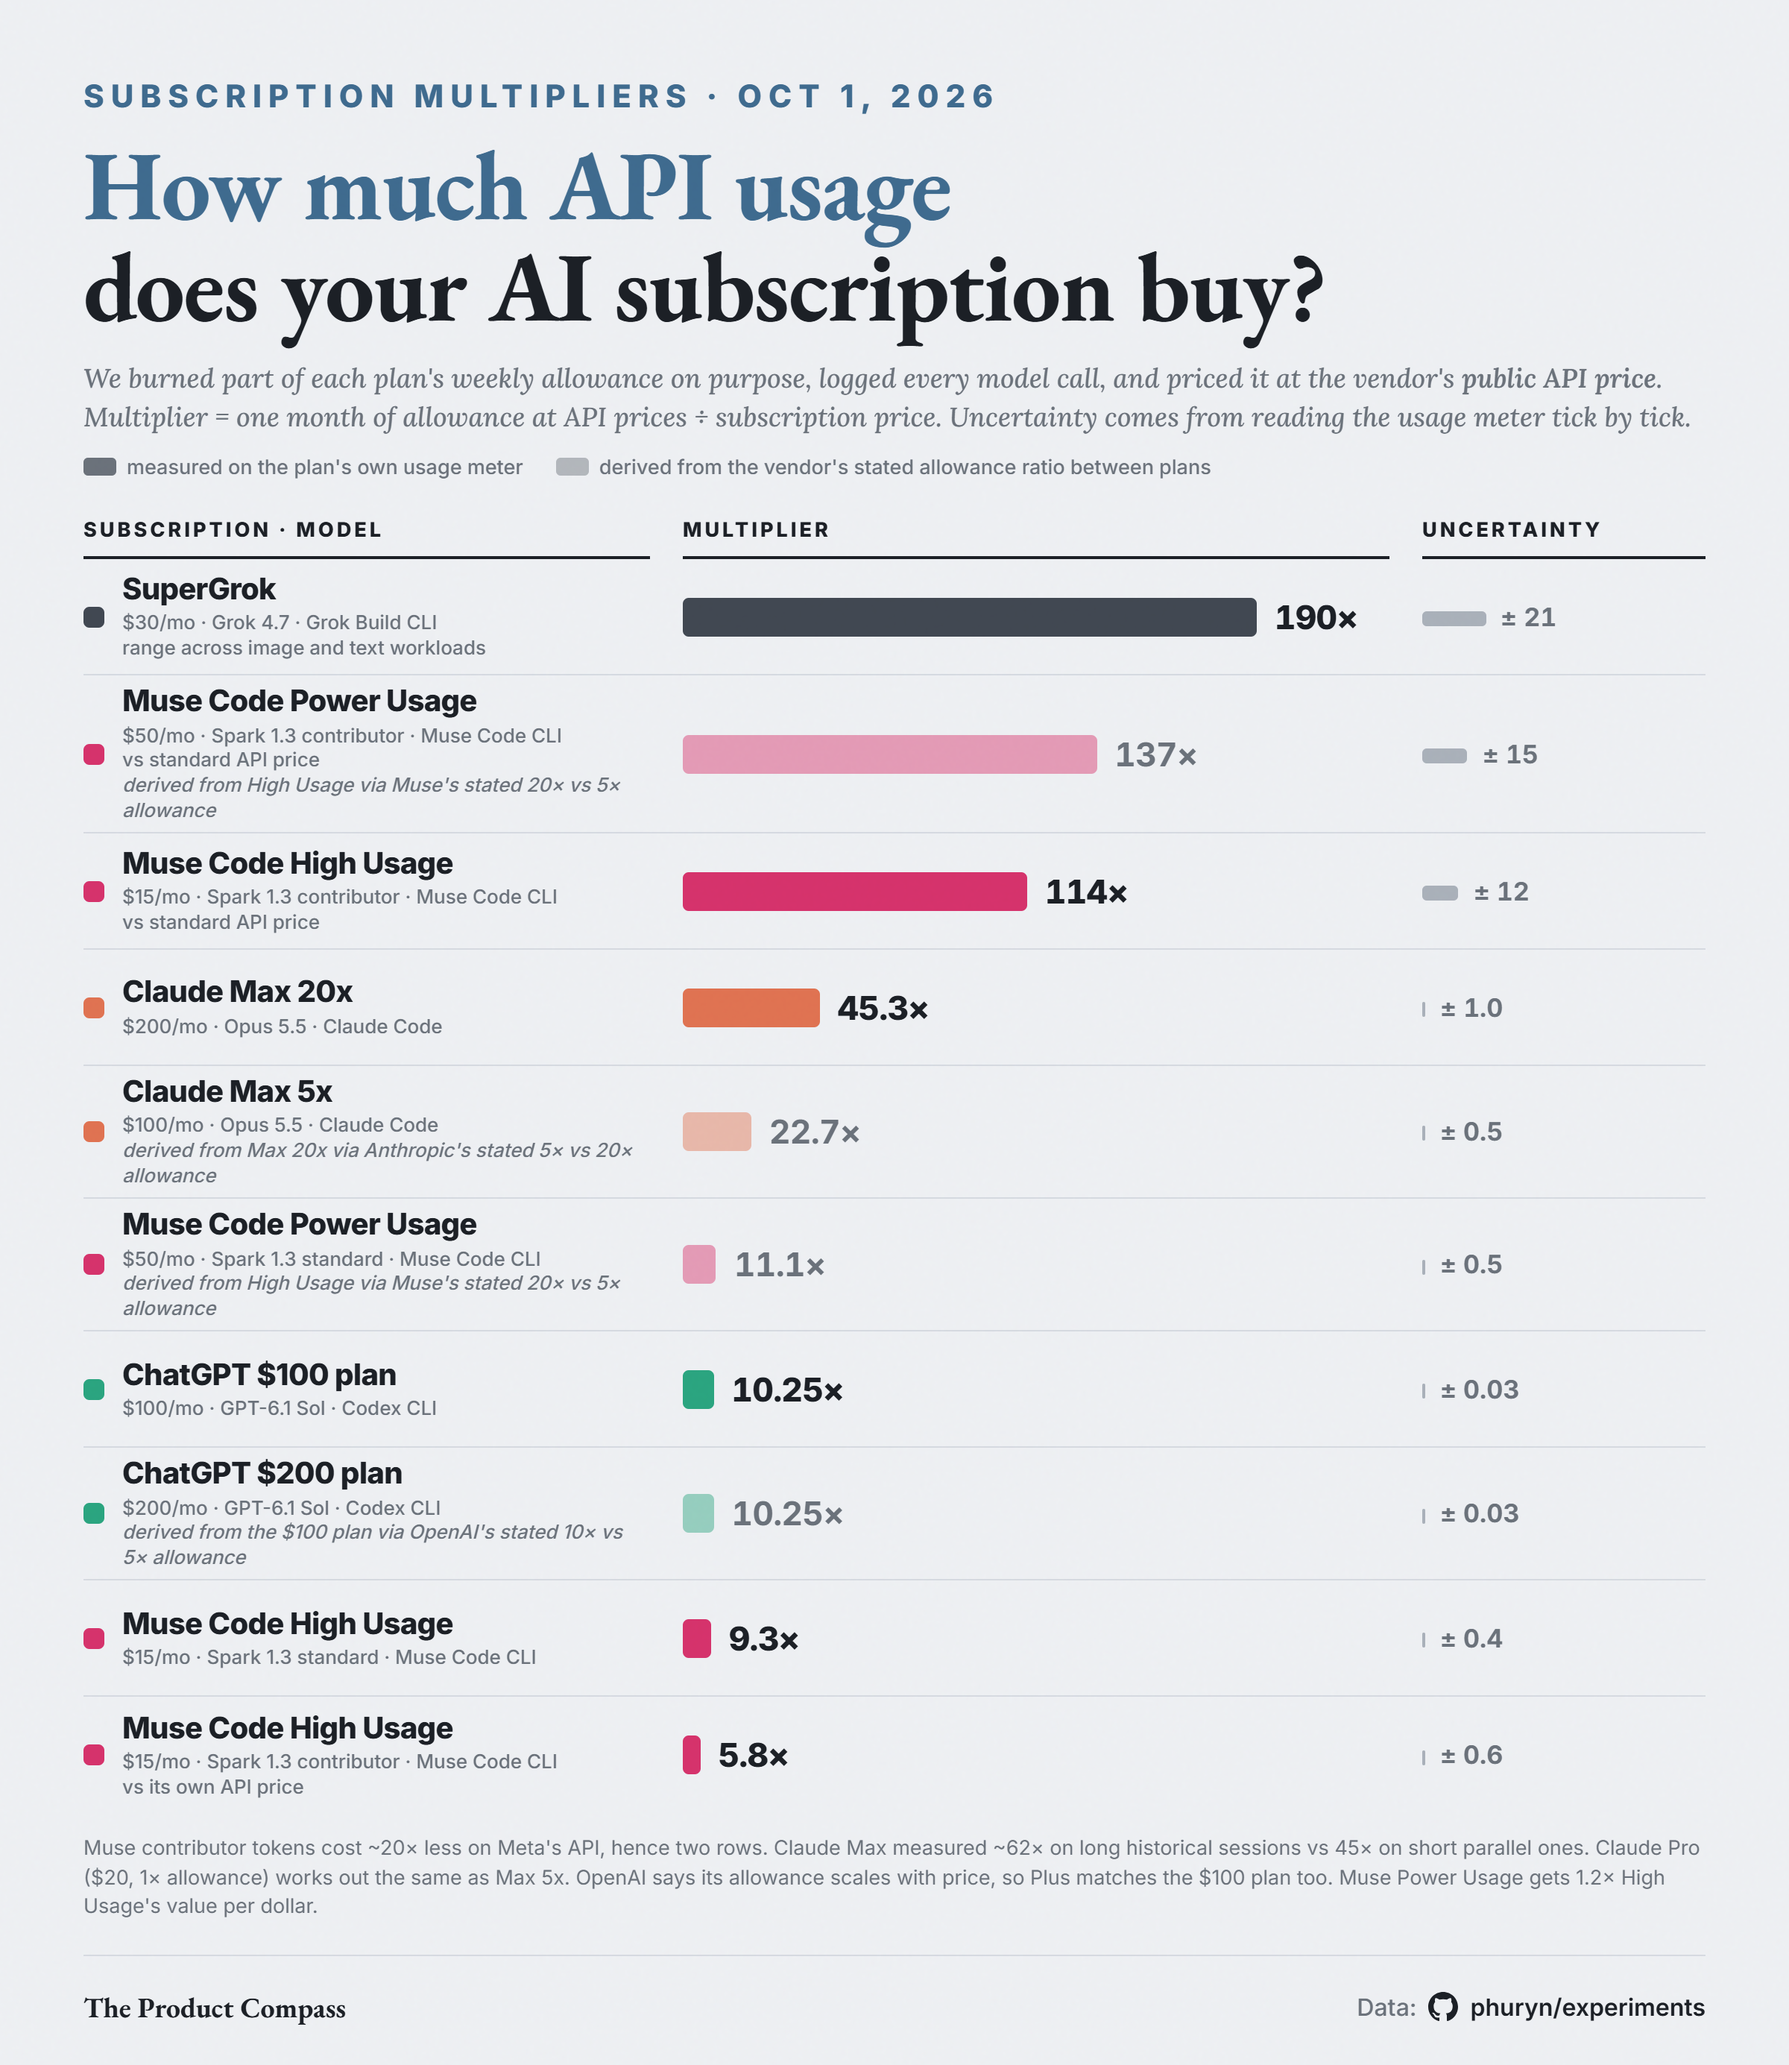
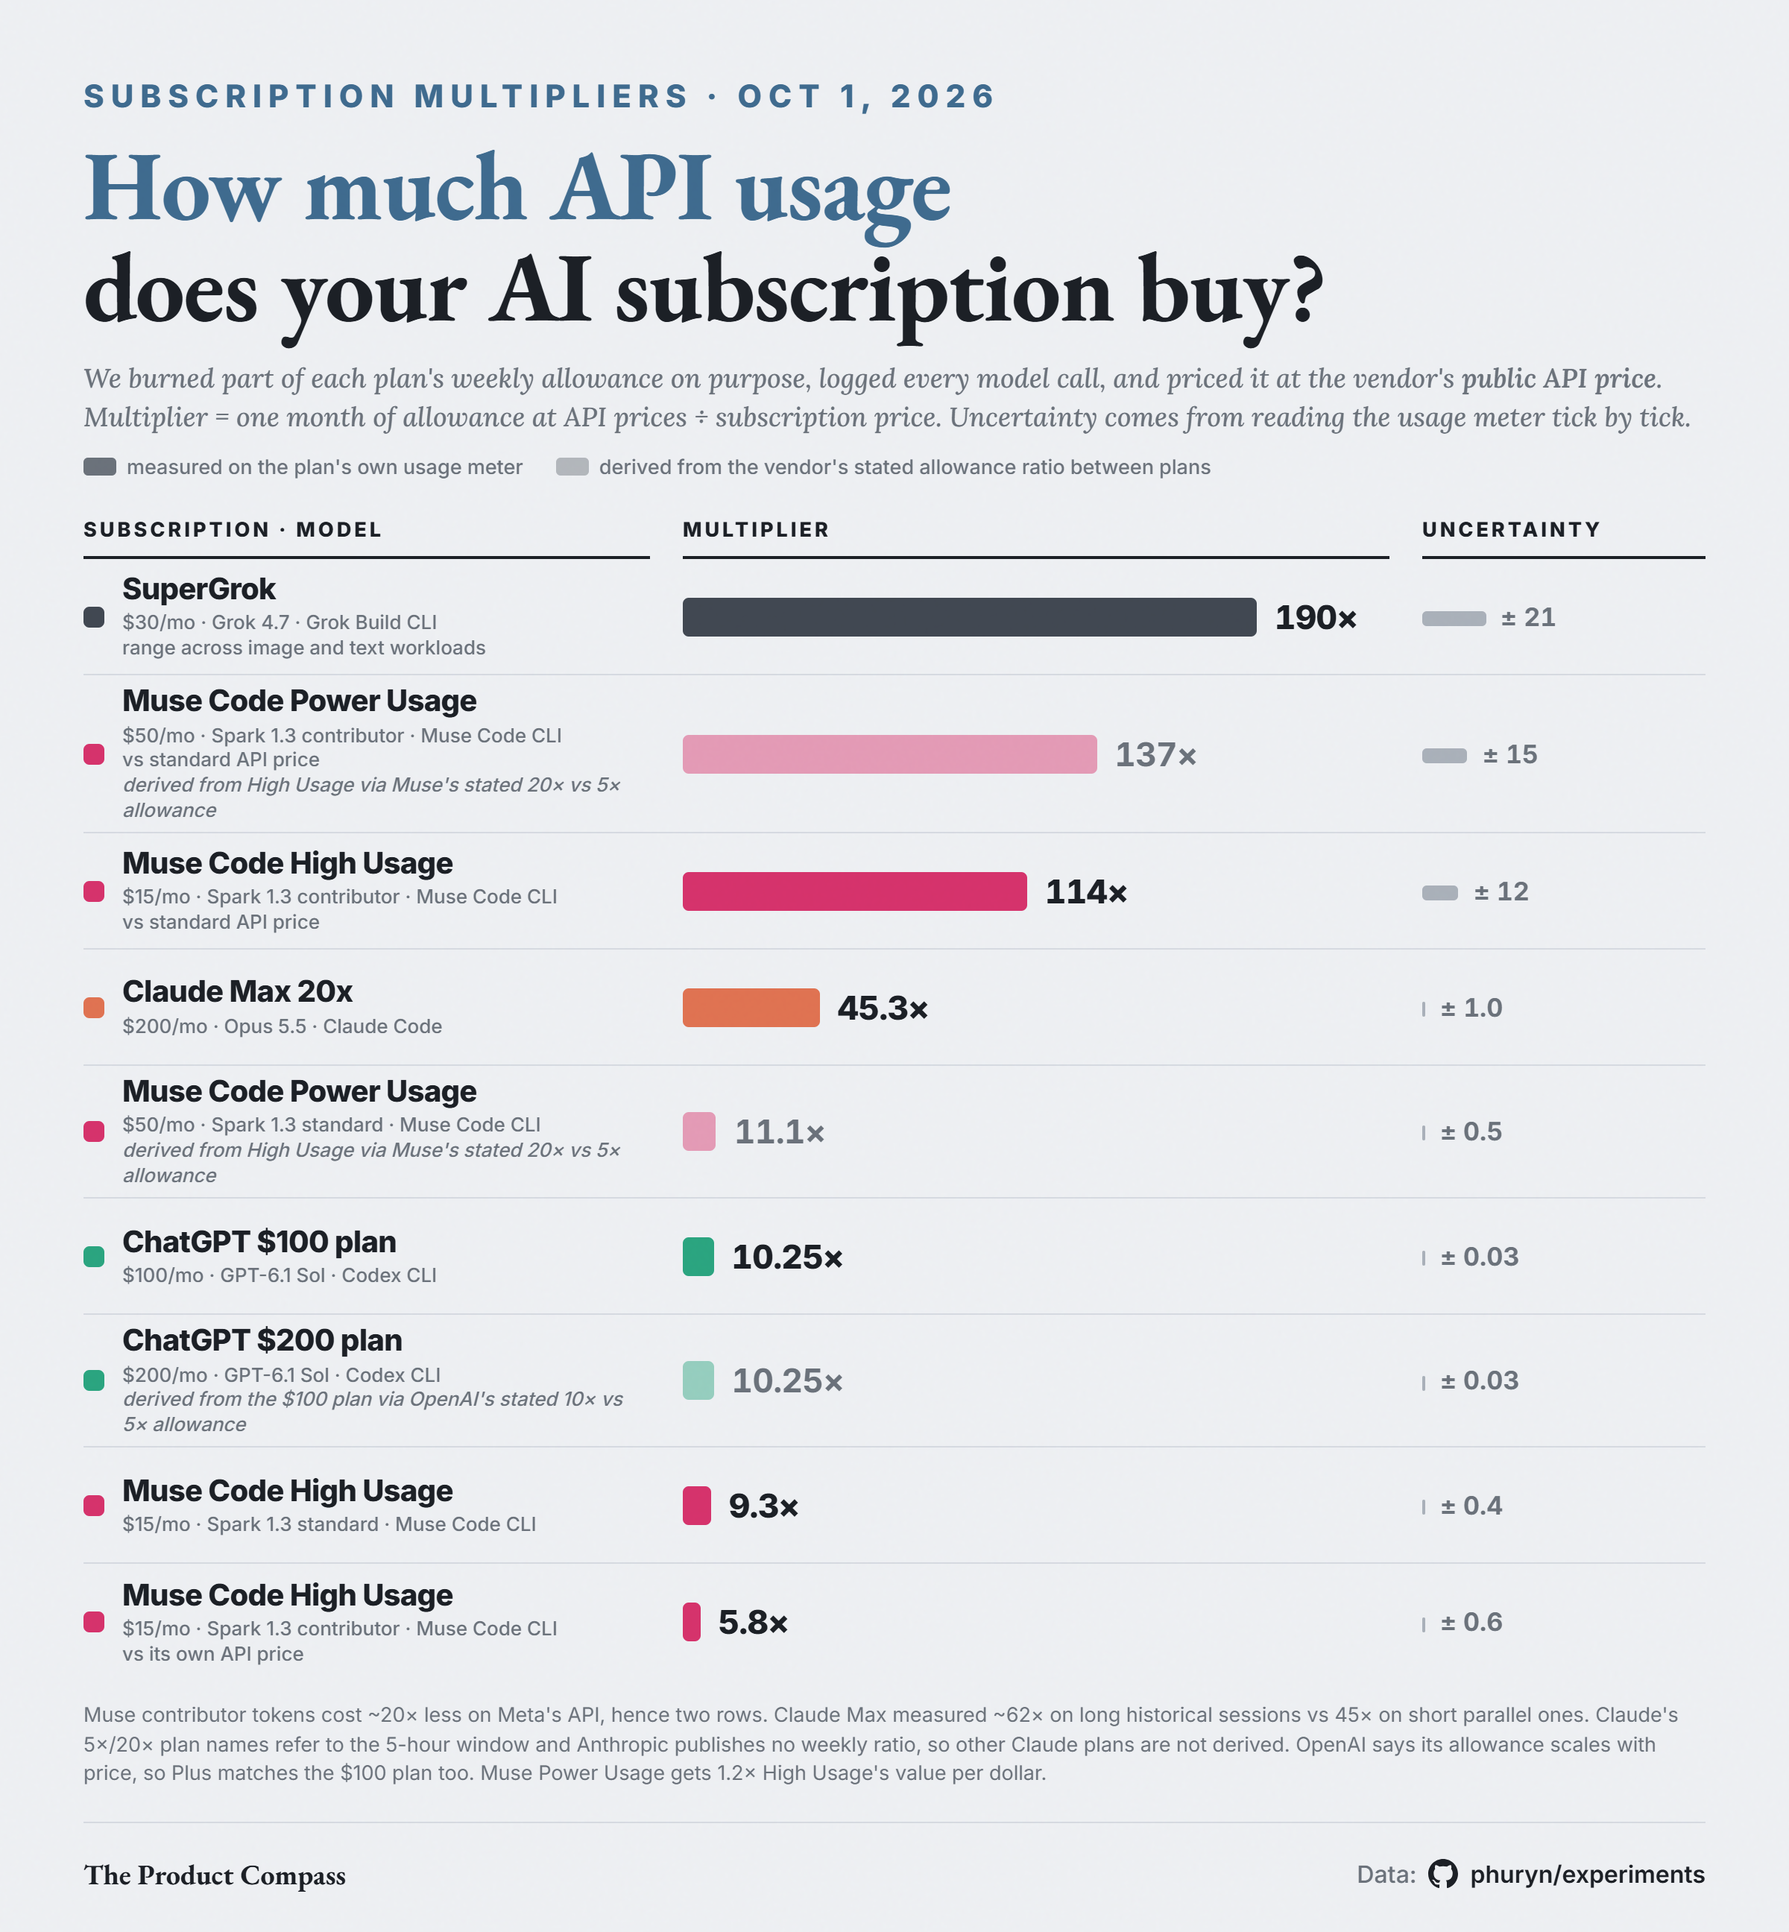
subscription-multipliers: remove derived Claude Max 5x row - Anthropic's 5x/20x is per-session, no published weekly ratio

diff --git a/subscription-multipliers/README.md b/subscription-multipliers/README.md
@@ -10,7 +10,6 @@ How much API usage does an AI coding subscription actually buy? For each plan we
 | [Muse Code Power Usage · Spark 1.3 contributor · Muse Code CLI — vs standard API price, *derived, not measured*](04-muse-code/#other-muse-code-plans-derived) | $50 | *137×* | ± 15 |
 | [Muse Code High Usage · Spark 1.3 contributor · Muse Code CLI — vs standard API price](04-muse-code/) | $15 | **114×** | ± 12 |
 | [Claude Max 20x · Opus 5.5 · Claude Code](02-claude-max/) | $200 | **45.3×** | ± 1.0 |
-| [Claude Max 5x · Opus 5.5 · Claude Code — *derived, not measured*](02-claude-max/#other-claude-plans-derived) | $100 | *22.7×* | ± 0.5 |
 | [Muse Code Power Usage · Spark 1.3 standard · Muse Code CLI — *derived, not measured*](04-muse-code/#other-muse-code-plans-derived) | $50 | *11.1×* | ± 0.5 |
 | [ChatGPT $100 plan · GPT-6.1 Sol · Codex CLI](03-codex/) | $100 | **10.25×** | ± 0.03 |
 | [ChatGPT $200 plan · GPT-6.1 Sol · Codex CLI — *derived, not measured*](03-codex/#other-chatgpt-plans-derived) | $200 | *10.25×* | ± 0.03 |
@@ -19,7 +18,7 @@ How much API usage does an AI coding subscription actually buy? For each plan we
 
 Measured Oct 1, 2026, each plan on its own, with other usage of that plan paused.
 
-**Claude Max 5x is derived, not measured:** Anthropic describes Max 5x as 5× and Max 20x as 20× the Pro allowance, so Max 5x gets a quarter of Max 20x's usage for half the price: 45.3× × ¼ × 2 = 22.7×. Claude Pro ($20, 1×) works out the same. OpenAI says its Codex allowance scales with price (Plus 1×, Pro $100 5×, Pro $200 10×), so every ChatGPT tier comes out at the measured 10.25×. **Muse Code Power Usage is derived the same way:** Muse describes Everyday Usage ($5) as the base allowance, High Usage ($15) as 5× and Power Usage ($50) as 20×, so Power gets 4× High Usage's allowance for 3.33× the price: High Usage × 1.2 (11.1× standard, 137× contributor vs standard API price, 7.0× contributor vs its own API price).
+**Other Claude plans are not derived.** Anthropic defines Max 5x and Max 20x as 5× and 20× Pro's *per-session* (5-hour) allowance and publishes no ratio for the weekly limit this set measures; third-party reports put the Max 20x / Max 5x weekly ratio around 1.5–2×, not 4×. OpenAI says its Codex allowance scales with price (Plus 1×, Pro $100 5×, Pro $200 10×), so every ChatGPT tier comes out at the measured 10.25×. **Muse Code Power Usage is derived the same way:** Muse describes Everyday Usage ($5) as the base allowance, High Usage ($15) as 5× and Power Usage ($50) as 20×, so Power gets 4× High Usage's allowance for 3.33× the price: High Usage × 1.2 (11.1× standard, 137× contributor vs standard API price, 7.0× contributor vs its own API price).
 
 **Uncertainty** is the bracket on the run's average, explained below; for SuperGrok it is the range between its image and text workloads, which differ more than the meter-reading bracket. Individual percent points can vary more than that (Codex's ranged 9.7–10.7×); every point is listed in each folder.
 

diff --git a/subscription-multipliers/02-claude-max/README.md b/subscription-multipliers/02-claude-max/README.md
@@ -40,17 +40,9 @@ Cost composition at list price: 5-minute cache writes 60%, cache reads 36%, 1-ho
 1. **One percent of the Max 20x week bought ~$21 of Opus 5.5 at API prices; a full month ≈ $9,060 for $200.** That is 45.3× ± 1.0.
 2. **The number may depend on the kind of work.** Long historical interactive sessions on the same account (Sep 28–30, mostly Sonnet 5.5) came out at ~62× (28 full steps, 61.6–61.8× over the whole span). There, 78% of the API cost was cache reads and 18% 1-hour cache writes. That data comes from private sessions and is not published here, and it is not in the table: it predates this run, so it may not reflect the current meter. Read together, Anthropic's meter appears to charge cache reads at less than their API weight: long sessions that mostly re-read cached context get more out of the plan than many short parallel sessions that keep writing new cache.
 
-## Other Claude plans (derived)
+## Other Claude plans
 
-Only Max 20x was measured. Anthropic describes its plans' allowances relative to Pro: Pro 1×, Max 5x 5×, Max 20x 20×. Taking that at face value:
-
-| Plan | Price | Allowance | Multiplier |
-|---|---|---|---|
-| Max 20x (measured) | $200 | 20× | 45.3× ± 1.0 |
-| Max 5x (derived) | $100 | 5× | 45.3 × 5/20 × 200/100 = **22.7× ± 0.5** |
-| Pro (derived) | $20 | 1× | 45.3 × 1/20 × 200/20 = **22.7× ± 0.5** |
-
-These rows are only as good as the stated allowance ratios; they were not measured.
+Not derived. Anthropic describes Max 5x and Max 20x as 5× and 20× the Pro plan's **per-session** (5-hour) allowance ([What is the Max plan?](https://support.claude.com/en/articles/11049741-what-is-the-max-plan)); the weekly limit, which is what this experiment measures, is stated separately and without a ratio. Third-party reports put the Max 20x / Max 5x weekly ratio at roughly 1.5–2×, which would make Max 5x worth about the same as or more than Max 20x per dollar — but that is not an official figure, so no row is published for it. (An earlier version of this set derived Max 5x at 22.7× from a 5:20 weekly ratio; that ratio was wrong.)
 
 ## Caveats
 
